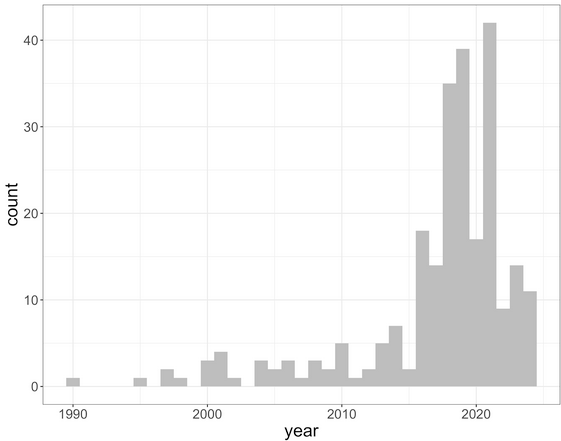
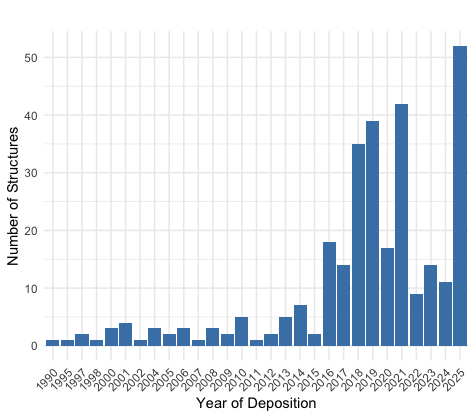
update 2025 numbers

diff --git a/electron-diffraction.md b/electron-diffraction.md
@@ -12,7 +12,7 @@
 
 
 ## Introduction
-Electron diffraction on two-dimensional (2D) crystals was first reported by Henderson in 1975. The first structure resolved by 2D Electron Crystallography (2DEC), bacteriorhodopsin (PDB ID: 1BRD), was deposited into the Protein Data Bank (PDB) in 1990. Between 1990 and 2012, only 36 2DEC structures were added to the PDB, with an annual deposition rate ranging from 0 to 5 entries. This landscape shifted significantly with the development of 3D Microcrystal Electron Diffraction (3D ED/MicroED), a technique that applies electron diffraction to small three-dimensional (3D) crystals. As shown in the following figure, the growth of 3D ED/MicroED has been substantial—over 40 3D ED/MicroED structures were deposited in the PDB in 2021 alone.
+Electron diffraction on two-dimensional (2D) crystals was first reported by Henderson in 1975. The first structure resolved by 2D Electron Crystallography (2DEC), bacteriorhodopsin (PDB ID: 1BRD), was deposited into the Protein Data Bank (PDB) in 1990. Between 1990 and 2012, only 36 2DEC structures were added to the PDB, with an annual deposition rate ranging from 0 to 5 entries. This landscape shifted significantly with the development of 3D Microcrystal Electron Diffraction (3D ED/MicroED), a technique that applies electron diffraction to small three-dimensional (3D) crystals. As shown in the following figure, the growth of 3D ED/MicroED has been substantial—52 3D ED/MicroED structures have been deposited in the PDB from Jan to Oct in 2025.
 
 <img src="imgs/growth.png" alt="linked_mod" width="600px">
 Figure 1: Growth of PDB structures resolved by electron diffraction.
@@ -31,7 +31,7 @@ In summary, 3D ED/MicroED enables high-resolution structure determination from s
 
 
 ## Scope
-As of June 18, 2025, there are 267 publicly released PDB structures resolved by electron diffraction method. Among them ~20% were resolved by 2DEC, and ~80% by 3D ED/MicroED. There are also 30+ structures that have been deposited but not released yet, raising the total to ~300. The improved electron diffraction proposed here will update all of these structures.
+As of Oct, 2025, there are 273 publicly released PDB structures resolved by electron diffraction method. Among them ~20% were resolved by 2DEC, and ~80% by 3D ED/MicroED. The improved electron diffraction proposed here will update all of these structures.
 
 
 ## Updates
